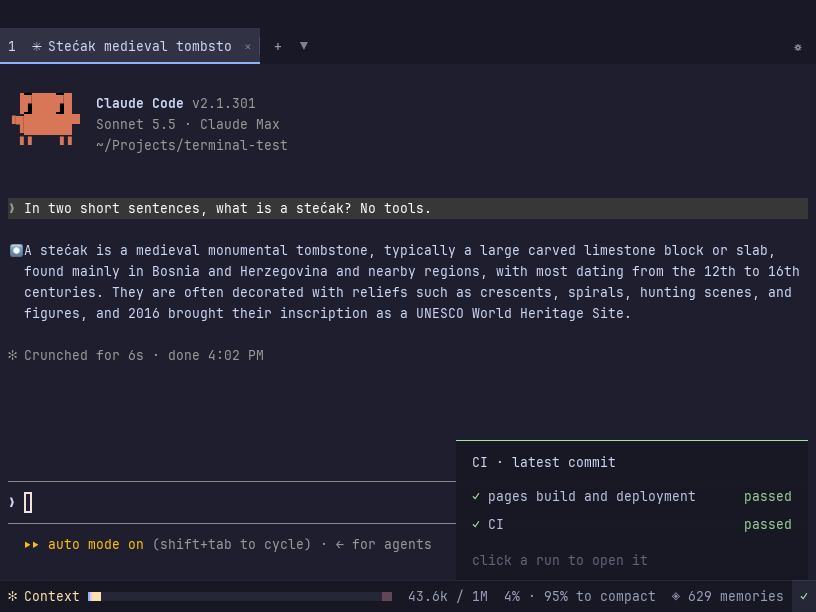
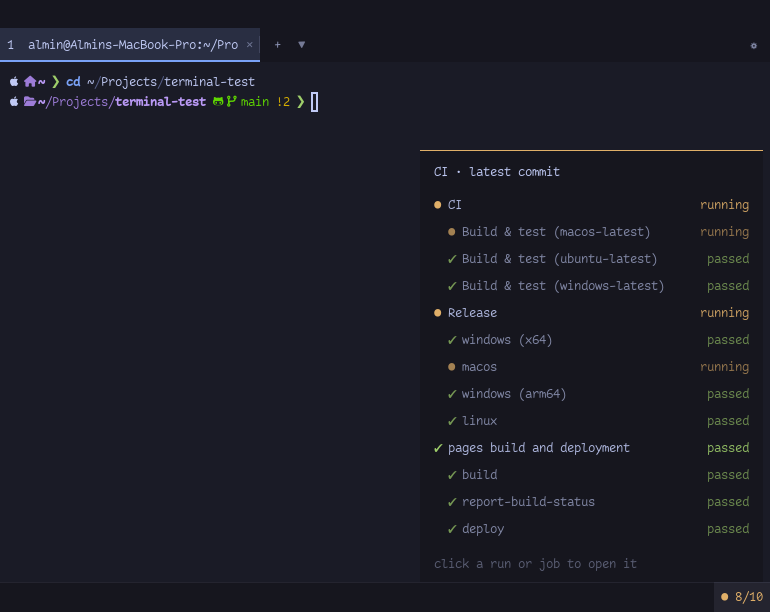
0.2.23: CI chip counts jobs, hover lists every job
- The CI chip at the right end of the bottom bar shows finished/total jobs while a run is
  going, e.g. "● 8/10". Hovering it lists each job under its workflow with ● running,
  ✓ passed, ✗ failed; clicking a job opens it. GitHub runs fetch their jobs (up to 5 runs
  per poll); GitLab pipelines list theirs.
- GitHub runs are looked up by the current commit first, so a tag's Release run shows next
  to the branch's CI run; a commit that isn't pushed yet falls back to the branch's newest.
- README and site: updated CI text and screenshot.

diff --git a/docs/index.html b/docs/index.html
@@ -264,7 +264,7 @@
           <h3>CI where you work</h3>
           <p>In a GitHub or GitLab repo, the bar's right end shows the latest commit's CI: running, passed or failed. Hover it for every workflow, click one to open it, and get a notification when a run finishes while you're elsewhere. It uses the <span class="mono">gh</span> or <span class="mono">glab</span> login you already have.</p>
         </div>
-        <img class="shot" src="img/ci.png" alt="The CI panel above the bottom bar: pages build and deployment passed, CI passed" loading="lazy">
+        <img class="shot" src="img/ci.png" alt="The CI panel above the bottom bar: CI and Release running with each job listed, pages build and deployment passed; the chip reads 8/10 jobs" loading="lazy">
       </div>
       <h3 style="margin-top:56px">Your agent, one keystroke away</h3>
       <ul class="features">

diff --git a/src/ci.rs b/src/ci.rs
@@ -1,8 +1,10 @@
 //! CI status for the focused pane's repo: the latest GitHub Actions runs or GitLab pipeline on
-//! its current branch, shown as an icon in the bottom bar with every run listed on hover.
+//! its current branch, shown as an icon in the bottom bar (with a finished/total job count while
+//! it runs) and every run with its jobs listed on hover.
 //!
 //! shortcut: shells out to git and curl (like the update check) instead of linking git and an
-//! HTTP/TLS stack; no ETags, so every poll counts against the API rate limit.
+//! HTTP/TLS stack; no ETags, so every poll (one request per workflow run for its jobs, plus one
+//! for the list) counts against the API rate limit.
 
 use std::path::{Path, PathBuf};
 use std::process::{Command, Stdio};
@@ -38,6 +40,41 @@ pub struct Run {
     pub name: String,
     pub state: State,
     pub url: String,
+    /// The run's jobs (GitHub: each `jobs:` entry; GitLab: each pipeline job), in order.
+    pub jobs: Vec<Job>,
+}
+
+#[derive(Clone, Debug, PartialEq)]
+pub struct Job {
+    pub name: String,
+    pub state: State,
+    pub url: String,
+}
+
+/// A line in the hover list: a run (depth 0) or one of its jobs (depth 1).
+pub struct Row<'a> {
+    pub depth: usize,
+    pub name: &'a str,
+    pub state: State,
+    pub url: &'a str,
+}
+
+impl Status {
+    /// Jobs finished so far and in total, across every run of the commit. None without jobs.
+    pub fn jobs_done(&self) -> Option<(usize, usize)> {
+        let total = self.runs.iter().map(|r| r.jobs.len()).sum::<usize>();
+        let done = self.runs.iter().flat_map(|r| &r.jobs).filter(|j| j.state != State::Running).count();
+        (total > 0).then_some((done, total))
+    }
+
+    pub fn rows(&self) -> Vec<Row<'_>> {
+        let mut rows = vec![];
+        for r in &self.runs {
+            rows.push(Row { depth: 0, name: &r.name, state: r.state, url: &r.url });
+            rows.extend(r.jobs.iter().map(|j| Row { depth: 1, name: &j.name, state: j.state, url: &j.url }));
+        }
+        rows
+    }
 }
 
 #[derive(Debug, PartialEq)]
@@ -65,8 +102,16 @@ fn fetch(cwd: &Path, gitlab_hosts: &[String]) -> Option<Status> {
     let branch = git(&["branch", "--show-current"]).filter(|b| !b.is_empty())?;
     match provider(&host, gitlab_hosts)? {
         Host::GitHub => {
-            let url = format!("https://api.github.com/repos/{path}/actions/runs?per_page=10&branch={}", encode(&branch));
-            github_status(&get(&url, token("github.com", &host)?.as_deref())?)
+            let token = token("github.com", &host)?;
+            let runs = |query: &str| get(&format!("https://api.github.com/repos/{path}/actions/runs?per_page=10&{query}"), token.as_deref());
+            // By commit first, so a tag's release run shows next to the branch's CI run. A
+            // commit that isn't pushed yet has no runs: then the branch's newest.
+            let by_sha = git(&["rev-parse", "HEAD"]).and_then(|sha| runs(&format!("head_sha={sha}")));
+            let v = match by_sha.filter(|v| v["workflow_runs"].as_array().is_some_and(|a| !a.is_empty())) {
+                Some(v) => v,
+                None => runs(&format!("branch={}", encode(&branch)))?,
+            };
+            github_status(&v, |jobs_url| get(&format!("{jobs_url}?per_page=100"), token.as_deref()))
         }
         Host::GitLab(h) => {
             // By commit first: merge request pipelines run on refs/merge-requests/<iid>/head,
@@ -77,7 +122,7 @@ fn fetch(cwd: &Path, gitlab_hosts: &[String]) -> Option<Status> {
                 Some(v) => v,
                 None => gitlab_get(&h, &format!("{project}&ref={}", encode(&branch)))?,
             };
-            gitlab_status(&v)
+            gitlab_status(&v, |id| gitlab_get(&h, &format!("projects/{}/pipelines/{id}/jobs?per_page=100", encode(&path))))
         }
     }
 }
@@ -177,7 +222,8 @@ fn get(url: &str, token: Option<&str>) -> Option<serde_json::Value> {
 }
 
 /// The newest commit's runs (one per workflow): running if any is, failed if any failed.
-fn github_status(v: &serde_json::Value) -> Option<Status> {
+/// `jobs` fetches a run's `jobs_url` (at most `MAX_JOB_FETCHES` runs, newest first).
+fn github_status(v: &serde_json::Value, jobs: impl Fn(&str) -> Option<serde_json::Value>) -> Option<Status> {
     let runs = v["workflow_runs"].as_array()?;
     let head = runs.first()?;
     let same: Vec<_> = runs.iter().filter(|r| r["head_sha"] == head["head_sha"]).collect();
@@ -193,22 +239,35 @@ fn github_status(v: &serde_json::Value) -> Option<Status> {
     let mut runs: Vec<Run> = vec![];
     for r in &same {
         if !runs.iter().any(|x| x.name == name(r)) {
-            runs.push(Run { name: name(r), state: state_of(r), url: r["html_url"].as_str().unwrap_or_default().to_string() });
+            let fetched = (runs.len() < MAX_JOB_FETCHES).then(|| r["jobs_url"].as_str()).flatten().and_then(&jobs);
+            let jobs = fetched.as_ref().and_then(|v| v["jobs"].as_array()).map(|a| a.iter().map(|j| Job { name: name_of(j, "name", "Job"), state: state_of(j), url: j["html_url"].as_str().unwrap_or_default().to_string() }).collect()).unwrap_or_default();
+            runs.push(Run { name: name(r), state: state_of(r), url: r["html_url"].as_str().unwrap_or_default().to_string(), jobs });
         }
     }
     Some(Status { state: state_of(pick), url: pick["html_url"].as_str()?.to_string(), name: name(pick), runs })
 }
 
-fn gitlab_status(v: &serde_json::Value) -> Option<Status> {
+/// Runs whose jobs are listed; the rest show only their own state.
+const MAX_JOB_FETCHES: usize = 5;
+
+fn name_of(v: &serde_json::Value, key: &str, fallback: &str) -> String {
+    v[key].as_str().unwrap_or(fallback).to_string()
+}
+
+/// `jobs` fetches the pipeline's job list by pipeline id.
+fn gitlab_status(v: &serde_json::Value, jobs: impl Fn(u64) -> Option<serde_json::Value>) -> Option<Status> {
     let p = v.as_array()?.first()?;
-    let state = match p["status"].as_str()? {
+    let state_of = |s: &str| match s {
         "success" => State::Passed,
         "failed" => State::Failed,
         "created" | "waiting_for_resource" | "preparing" | "pending" | "running" => State::Running,
         _ => State::Other,
     };
+    let state = state_of(p["status"].as_str()?);
     let url = p["web_url"].as_str()?.to_string();
-    Some(Status { state, runs: vec![Run { name: "Pipeline".into(), state, url: url.clone() }], url, name: "Pipeline".into() })
+    let jobs = p["id"].as_u64().and_then(jobs).and_then(|v| v.as_array().cloned()).unwrap_or_default();
+    let jobs = jobs.iter().map(|j| Job { name: name_of(j, "name", "Job"), state: state_of(j["status"].as_str().unwrap_or_default()), url: name_of(j, "web_url", "") }).collect();
+    Some(Status { state, runs: vec![Run { name: "Pipeline".into(), state, url: url.clone(), jobs }], url, name: "Pipeline".into() })
 }
 
 #[cfg(test)]
@@ -232,14 +291,35 @@ mod tests {
     #[test]
     fn reads_statuses() {
         let run = |sha: &str, status: &str, conclusion: Option<&str>, name: &str| json!({"head_sha": sha, "status": status, "conclusion": conclusion, "name": name, "html_url": format!("u/{name}")});
+        let run = |sha: &str, status: &str, conclusion: Option<&str>, name: &str| {
+            let mut r = run(sha, status, conclusion, name);
+            r["jobs_url"] = json!(format!("jobs/{name}"));
+            r
+        };
+        let no_jobs = |_: &str| None;
         let v = json!({"workflow_runs": [run("b", "completed", Some("success"), "ci"), run("b", "in_progress", None, "release"), run("a", "completed", Some("failure"), "old")]});
-        let s = github_status(&v).unwrap();
+        let s = github_status(&v, no_jobs).unwrap();
         assert_eq!((s.state, s.name.as_str()), (State::Running, "release"));
         assert_eq!(s.runs.iter().map(|r| (r.name.as_str(), r.state)).collect::<Vec<_>>(), [("ci", State::Passed), ("release", State::Running)]);
+        assert_eq!(s.jobs_done(), None);
+        // Jobs: fetched per run, counted across runs; queued ones aren't done.
+        let job = |name: &str, status: &str, conclusion: Option<&str>| json!({"name": name, "status": status, "conclusion": conclusion, "html_url": format!("j/{name}")});
+        let s = github_status(&v, |url| match url {
+            "jobs/release" => Some(json!({"jobs": [job("macos", "completed", Some("success")), job("linux", "in_progress", None), job("windows", "queued", None)]})),
+            _ => Some(json!({"jobs": [job("test", "completed", Some("success"))]})),
+        })
+        .unwrap();
+        assert_eq!(s.jobs_done(), Some((2, 4)));
+        let rows: Vec<_> = s.rows().iter().map(|r| (r.depth, r.name.to_string(), r.state)).collect();
+        assert_eq!(rows[..3], [(0, "ci".into(), State::Passed), (1, "test".into(), State::Passed), (0, "release".into(), State::Running)]);
+        assert_eq!(rows[5], (1, "windows".into(), State::Running));
+        assert_eq!(s.rows()[4].url, "j/linux");
         let v = json!({"workflow_runs": [run("b", "completed", Some("success"), "ci"), run("a", "completed", Some("failure"), "old")]});
-        assert_eq!(github_status(&v).map(|s| s.state), Some(State::Passed));
-        assert_eq!(github_status(&json!({"workflow_runs": []})), None);
-        let v = json!([{"status": "failed", "web_url": "https://gitlab.com/p/-/pipelines/1"}]);
-        assert_eq!(gitlab_status(&v).map(|s| s.state), Some(State::Failed));
+        assert_eq!(github_status(&v, no_jobs).map(|s| s.state), Some(State::Passed));
+        assert_eq!(github_status(&json!({"workflow_runs": []}), no_jobs), None);
+        let v = json!([{"id": 7, "status": "failed", "web_url": "https://gitlab.com/p/-/pipelines/1"}]);
+        let s = gitlab_status(&v, |id| Some(json!([{"name": "build", "status": "success", "web_url": format!("p/{id}/1")}, {"name": "test", "status": "failed", "web_url": "p/7/2"}]))).unwrap();
+        assert_eq!((s.state, s.jobs_done()), (State::Failed, Some((2, 2))));
+        assert_eq!((s.runs[0].jobs[0].url.as_str(), s.runs[0].jobs[1].state), ("p/7/1", State::Failed));
     }
 }

diff --git a/src/main.rs b/src/main.rs
@@ -830,9 +830,9 @@ impl App {
         y >= self.r().size().1 - self.bar_row_h() && x < right && x >= right - self.mem_chip_w()
     }
 
-    /// Width of the CI icon at the right end of the bottom bar (0 without one).
+    /// Width of the CI chip at the right end of the bottom bar (0 without one).
     fn ci_chip_w(&self) -> f32 {
-        if self.ci.status.is_some() { 3.0 * self.r().cell().0 } else { 0.0 }
+        self.ci.status.as_ref().map_or(0.0, |s| (ci_label(s).chars().count() + 2) as f32 * self.r().cell().0)
     }
 
     fn over_ci_icon(&self, x: f32, y: f32) -> bool {
@@ -1622,8 +1622,10 @@ impl App {
                     _ => ci::State::Passed,
                 };
                 let url = "https://github.com/alminisl/stecak/actions".to_string();
-                let runs = [("CI", state), ("Release", ci::State::Passed), ("pages build and deployment", ci::State::Passed)]
-                    .map(|(name, state)| ci::Run { name: name.into(), state, url: url.clone() })
+                let job = |name: &str, state| ci::Job { name: name.into(), state, url: url.clone() };
+                let ci_jobs = vec![job("macos", ci::State::Passed), job("linux", state), job("windows", state), job("windows-arm64", ci::State::Running)];
+                let runs = [("CI", state, ci_jobs), ("Release", ci::State::Passed, vec![]), ("pages build and deployment", ci::State::Passed, vec![job("deploy", ci::State::Passed)])]
+                    .map(|(name, state, jobs)| ci::Run { name: name.into(), state, url: url.clone(), jobs })
                     .to_vec();
                 self.ci.status = Some(ci::Status { state, url, name: "CI".into(), runs });
                 self.sync_bottom_bar();
@@ -1860,9 +1862,9 @@ impl App {
             }
         }
         if let Some((panel, y0, lh)) = self.ci_panel.filter(|p| self.ci_hover && p.0.contains(x, y)) {
-            let run = self.ci.status.as_ref().and_then(|s| s.runs.get(((y - y0).max(0.0) / lh) as usize));
-            if let Some(run) = run.filter(|_| y >= y0 && x >= panel.x) {
-                mouse::open_url(&run.url);
+            let url = self.ci.status.as_ref().and_then(|s| s.rows().get(((y - y0).max(0.0) / lh) as usize).map(|r| r.url.to_string()));
+            if let Some(url) = url.filter(|u| y >= y0 && x >= panel.x && !u.is_empty()) {
+                mouse::open_url(&url);
             }
             return;
         }
@@ -2333,8 +2335,8 @@ impl App {
             let h = (ch * 1.5).round();
             draw_herdr_strip(r, theme, agents, &self.breakdowns, win_h - h * (t.context_bar as u8 + 1) as f32);
         }
-        let chip = self.ci.status.as_ref().map(|s| ci_glyph(s.state));
-        let chip_w = if chip.is_some() { 3.0 * cw } else { 0.0 };
+        let chip = self.ci.status.as_ref().map(|s| (ci_label(s), ci_glyph(s.state).1));
+        let chip_w = chip.as_ref().map_or(0.0, |(l, _)| (l.chars().count() + 2) as f32 * cw);
         if let Some(c) = &self.context {
             let breakdown = self.breakdowns.get(&c.cwd).and_then(|b| b.1.as_ref());
             draw_context_bar(r, theme, c.used.as_ref(), breakdown, self.context_hover, chip_w + mem_w);
@@ -2356,13 +2358,13 @@ impl App {
             r.rect(0.0, win_h - h, win_w, r.scale.max(1.0), rgba(theme.fg, 0.08));
         }
         self.ci_panel = None;
-        if let Some((glyph, color)) = chip {
+        if let Some((label, color)) = chip {
             let h = (ch * 1.5).round();
-            let x = win_w - 2.0 * cw;
+            let x = win_w - chip_w + cw;
             if self.ci_hover {
                 r.rect(win_w - chip_w, win_h - h, chip_w, h, rgba(theme.fg, 0.08));
             }
-            r.text(glyph, x, win_h - h + ((h - ch) / 2.0).round(), win_w, rgba(color(theme), 1.0));
+            r.text(&label, x, win_h - h + ((h - ch) / 2.0).round(), win_w, rgba(color(theme), 1.0));
             if let Some(s) = self.ci.status.as_ref().filter(|_| self.ci_hover) {
                 self.ci_panel = Some(draw_ci_panel(r, theme, s, win_h - h));
             }
@@ -2814,6 +2816,15 @@ fn category_color(theme: &Theme, name: &str) -> [f32; 3] {
 
 /// The context bar under the panes: how full the Claude Code session's context window is,
 /// split by category, with the full breakdown in a panel while the mouse is over it.
+/// The bottom-bar chip's text: the state's icon, plus "done/total" jobs while a run is going.
+fn ci_label(s: &ci::Status) -> String {
+    let (glyph, _) = ci_glyph(s.state);
+    match s.jobs_done() {
+        Some((done, total)) if s.state == ci::State::Running => format!("{glyph} {done}/{total}"),
+        _ => glyph.to_string(),
+    }
+}
+
 /// A CI state's icon and color.
 fn ci_glyph(state: ci::State) -> (&'static str, fn(&Theme) -> [f32; 3]) {
     match state {
@@ -2824,8 +2835,8 @@ fn ci_glyph(state: ci::State) -> (&'static str, fn(&Theme) -> [f32; 3]) {
     }
 }
 
-/// The CI icon's hover list: one row per workflow run, sitting on the bottom bar at `bar_y`.
-/// Returns (panel, first row y, row height).
+/// The CI icon's hover list: one row per workflow run with its jobs indented under it, sitting
+/// on the bottom bar at `bar_y`. Returns (panel, first row y, row height).
 fn draw_ci_panel(r: &mut Renderer, theme: &Theme, s: &ci::Status, bar_y: f32) -> (Rect, f32, f32) {
     let (cw, ch) = r.cell();
     let win_w = r.size().0;
@@ -2837,9 +2848,12 @@ fn draw_ci_panel(r: &mut Renderer, theme: &Theme, s: &ci::Status, bar_y: f32) ->
         ci::State::Failed => "failed",
         ci::State::Other => "cancelled",
     };
-    let longest = s.runs.iter().map(|r| r.name.chars().count()).max().unwrap_or(0);
+    // As many rows as fit above the bar, with room for the tab bar.
+    let mut rows = s.rows();
+    rows.truncate((((bar_y / lh) - 6.0).max(1.0)) as usize);
+    let longest = rows.iter().map(|r| r.name.chars().count() + 2 * r.depth).max().unwrap_or(0);
     let w = ((longest + 18) as f32 * cw).clamp(30.0 * cw, (win_w - 2.0 * cw).max(cw));
-    let ph = lh * (s.runs.len() as f32 + 3.0);
+    let ph = lh * (rows.len() as f32 + 3.0);
     let panel = Rect { x: win_w - w - cw, y: bar_y - ph, w: w + cw, h: ph };
     let (px0, pad) = (panel.x, 2.0 * cw);
     let (_, accent) = ci_glyph(s.state);
@@ -2847,16 +2861,18 @@ fn draw_ci_panel(r: &mut Renderer, theme: &Theme, s: &ci::Status, bar_y: f32) ->
     r.rect(px0, panel.y, w, r.scale.max(1.0), rgba(accent(theme), 1.0));
     r.text("CI · latest commit", px0 + pad, panel.y + lh * 0.3 + dy, px0 + w - pad, rgba(theme.fg, 1.0));
     let y0 = panel.y + lh * 1.5;
-    for (i, run) in s.runs.iter().enumerate() {
+    for (i, row) in rows.iter().enumerate() {
         let ry = y0 + i as f32 * lh + dy;
-        let (glyph, color) = ci_glyph(run.state);
-        let v = verdict(run.state);
+        let (glyph, color) = ci_glyph(row.state);
+        let v = verdict(row.state);
         let vx = px0 + w - pad - v.chars().count() as f32 * cw;
-        r.text(glyph, px0 + pad, ry, px0 + pad + 2.0 * cw, rgba(color(theme), 1.0));
-        r.text(&run.name, px0 + pad + 2.0 * cw, ry, vx - cw, rgba(theme.fg, 0.9));
-        r.text(v, vx, ry, px0 + w, rgba(color(theme), 0.9));
+        let x = px0 + pad + 2.0 * row.depth as f32 * cw;
+        let alpha = if row.depth == 0 { 1.0 } else { 0.7 };
+        r.text(glyph, x, ry, x + 2.0 * cw, rgba(color(theme), alpha));
+        r.text(row.name, x + 2.0 * cw, ry, vx - cw, rgba(theme.fg, 0.9 * alpha));
+        r.text(v, vx, ry, px0 + w, rgba(color(theme), 0.9 * alpha));
     }
-    r.text("click a run to open it", px0 + pad, panel.y + ph - lh + dy - lh * 0.2, px0 + w - pad, rgba(theme.fg, 0.4));
+    r.text("click a run or job to open it", px0 + pad, panel.y + ph - lh + dy - lh * 0.2, px0 + w - pad, rgba(theme.fg, 0.4));
     (panel, y0, lh)
 }
 

diff --git a/README.md b/README.md
@@ -181,9 +181,10 @@ Screen readers (Narrator, NVDA, VoiceOver, Orca) can read the focused pane's scr
 stays idle unless one is running.
 
 CI: when the focused pane is in a GitHub or GitLab repo, the bar under the panes shows an icon
-at its right end for the latest commit on the branch: ● running, ✓ passed, ✗ failed. Hover it to see every
-workflow (builds, releases, Pages deploys…) with its status; click a run to open it. If a run finishes while
-the window isn't focused, you get a notification. Tokens come from `GH_TOKEN` / `GITHUB_TOKEN` /
+at its right end for the latest commit: ● running, ✓ passed, ✗ failed. While something runs it counts
+jobs, like `● 8/10`. Hover it to see every workflow (builds, releases, Pages deploys…) with its jobs
+and their status; click a run or a job to open it. Runs of your commit from a tag (releases) show next
+to the branch's. If a run finishes while the window isn't focused, you get a notification. Tokens come from `GH_TOKEN` / `GITHUB_TOKEN` /
 `gh`, or `GITLAB_TOKEN` / `glab`; public repos work without one. List self-hosted GitLab servers
 under `ci.gitlab_hosts`. On Windows the pane's folder is known in PowerShell, not cmd.
 
